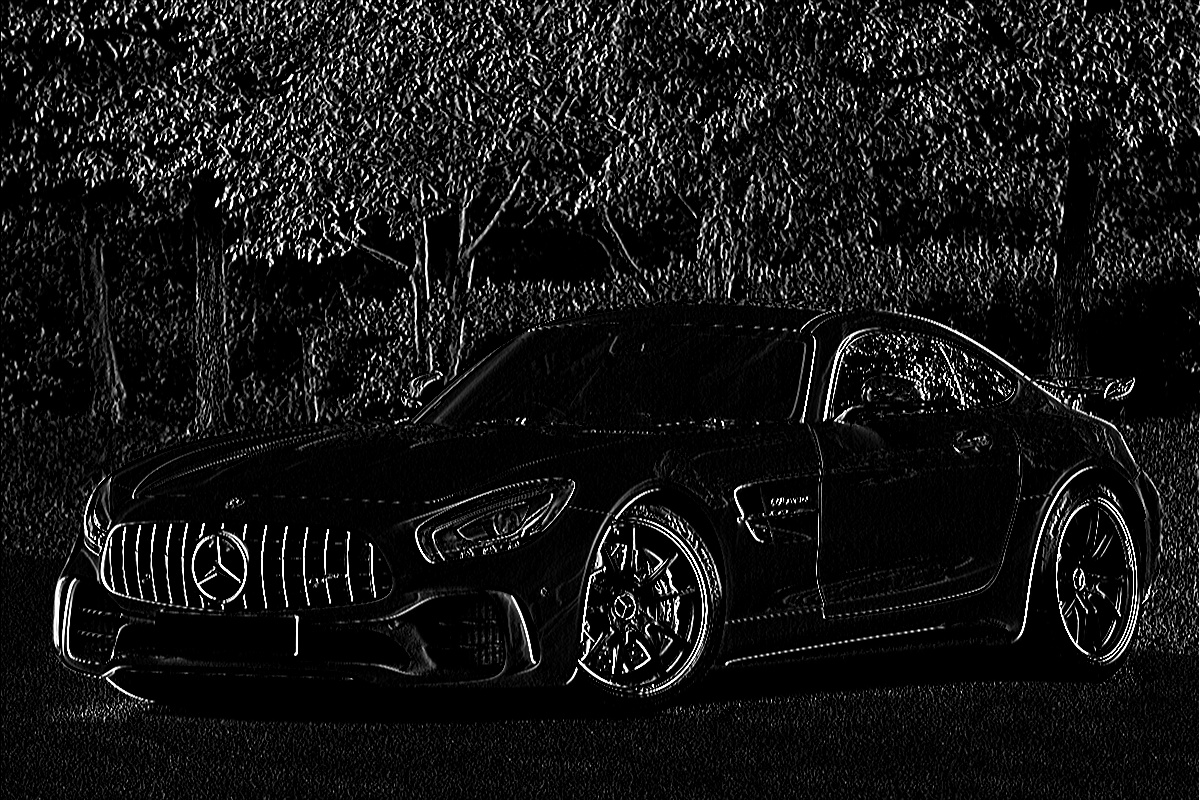
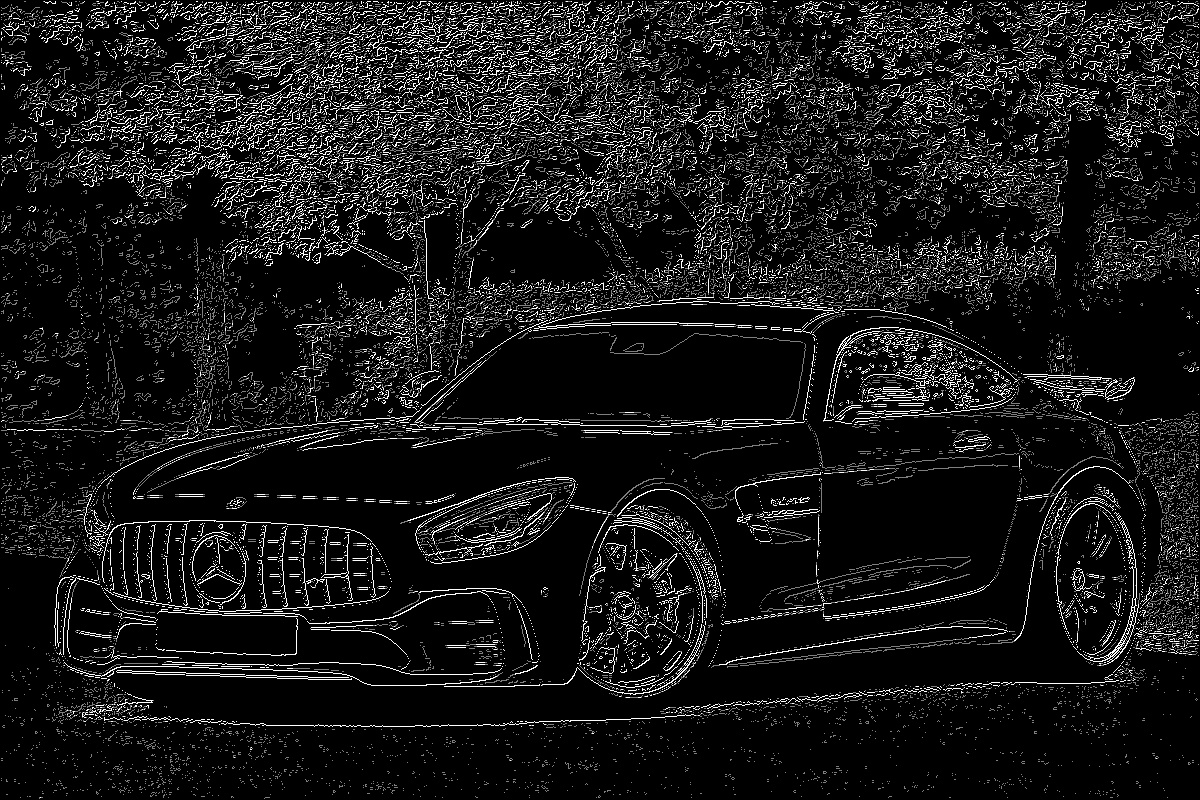
4/6/2023 V2

diff --git a/edge.py b/edge.py
@@ -1,126 +1,189 @@
-from freq_filter import freq_filter as F
-import cv2
 import numpy as np
 
-photo = cv2.imread("car.jpg",0)
-photo = cv2.resize(photo,(1200,800))
+class edge(object):
+
+    def __init__(self,photo):
+        self.photo = photo
+        return None
+
+    def double_thresholding(self,th1:int,th2:int):
+        photo = self.photo
+        
+        new = np.zeros((800,1200),dtype= np.float32)
+
+        for i in range(0,800):
+            for j in range(0,1200):
+                if photo[i,j] >= th2:
+                    new[i,j] = 255
+                elif photo[i,j] >= th1 and photo[i,j] <= th2 :
+                    new[i,j] = 127
+                else :
+                    new[i,j] =0
+
+        return new
 
 
 
 
-def double_thresholding(photo,th1:int,th2:int):
-    
-    new = np.zeros((800,1200),dtype= np.float32)
 
-    for i in range(0,800):
-        for j in range(0,1200):
-            if photo[i,j] >= th1 and photo[i,j] <= th2 :
-                new[i,j] = photo[i,j]
-            else :
-                new[i,j] =0
+    def sobelx(self):
 
-    return new
+        photo = self.photo
+
+        new = np.zeros((800,1200),dtype=np.float32)
+        temp = np.zeros((802,1202),dtype=np.float32)
 
 
+        temp[0,:] = 0
+        temp[:, 0] = 0
+        temp[801,:] = 0
+        temp[:, 1201] = 0
+        temp[1:801,1:1201] = photo
 
+        op = np.array([[-1,0,1],[-2,0,2],[-1,0,1]])
+        
+        for i in range(1,801):
+            for j in range(1,1201):
+                        
+                kernel = np.array([[temp[i-1,j-1],temp[i,j-1],temp[i+1,j-1]],
+                            [temp[i-1,j],temp[i,j],temp[i+1,j]],
+                            [temp[i-1,j+1],temp[i,j+1],temp[i+1,j+1]]])
+                
+                sum = 0
 
+                for x_key in range(3):
+                    for y_key in range(3) :
+                        sum += op[x_key,y_key]*kernel[x_key,y_key]
 
-def sobelx(photo):
-
-    new = np.zeros((800,1200),dtype=np.float32)
-    temp = np.zeros((802,1202),dtype=np.float32)
-
-
-    temp[0,:] = 0
-    temp[:, 0] = 0
-    temp[801,:] = 0
-    temp[:, 1201] = 0
-    temp[1:801,1:1201] = photo
-
-
-
-    op = np.array([[-1,0,1],[-2,0,2],[-1,0,1]])
-    
- 
-
-
-    for i in range(1,801):
-        for j in range(1,1201):
+                new[i-1,j-1] = sum
             
-       
-             
-            kernel = np.array([[temp[i-1,j-1],temp[i,j-1],temp[i+1,j-1]],
-                        [temp[i-1,j],temp[i,j],temp[i+1,j]],
-                        [temp[i-1,j+1],temp[i,j+1],temp[i+1,j+1]]])
             
-            sum = 0
-
-            for x_key in range(3):
-                for y_key in range(3) :
-                    sum += op[x_key,y_key]*kernel[x_key,y_key]
-
-            new[i-1,j-1] = sum
             
-         
-           
-    return  new
+        return  new
 
 
 
 
-def sobely(photo):
+    def sobely(self):
 
-    new = np.zeros((800,1200),dtype=np.float32)
-    temp = np.zeros((802,1202),dtype=np.float32)
+        photo = self.photo
 
-
-    temp[0,:] = 0
-    temp[:, 0] = 0
-    temp[801,:] = 0
-    temp[:, 1201] = 0
-    temp[1:801,1:1201] = photo
+        new = np.zeros((800,1200),dtype=np.float32)
+        temp = np.zeros((802,1202),dtype=np.float32)
 
 
+        temp[0,:] = 0
+        temp[:, 0] = 0
+        temp[801,:] = 0
+        temp[:, 1201] = 0
+        temp[1:801,1:1201] = photo
 
-    op = np.array([[1,2,1],[0,0,0],[-1,-2,-1]])
-    
- 
+        op = np.array([[1,2,1],[0,0,0],[-1,-2,-1]])
+        
+        for i in range(1,801):
+            for j in range(1,1201):
+                
+                kernel = np.array([[temp[i-1,j-1],temp[i,j-1],temp[i+1,j-1]],
+                            [temp[i-1,j],temp[i,j],temp[i+1,j]],
+                            [temp[i-1,j+1],temp[i,j+1],temp[i+1,j+1]]])
+                
+                sum = 0
 
+                for x_key in range(3):
+                    for y_key in range(3) :
+                        sum += op[x_key,y_key]*kernel[x_key,y_key]
 
-    for i in range(1,801):
-        for j in range(1,1201):
+                new[i-1,j-1] = sum
             
-       
-             
-            kernel = np.array([[temp[i-1,j-1],temp[i,j-1],temp[i+1,j-1]],
-                        [temp[i-1,j],temp[i,j],temp[i+1,j]],
-                        [temp[i-1,j+1],temp[i,j+1],temp[i+1,j+1]]])
+                
             
-            sum = 0
-
-            for x_key in range(3):
-                for y_key in range(3) :
-                    sum += op[x_key,y_key]*kernel[x_key,y_key]
-
-            new[i-1,j-1] = sum
             
-         
-           
-    return  new
+        return  new
+
+    def sobel_avg(self):
+        
+        photo = self.photo
+        mag = np.zeros((800,1200),dtype=np.float32)
+        e = edge(photo)
+        gx = e.sobelx()
+        gy = e.sobely()
+
+        for i in range(800):
+            for j in range(1200):
+                mag[i,j] = np.sqrt(gx[i,j]**2 + gy[i,j]**2)
+
+        return mag    
+
+
+    def gradientation(self):
+
+        mag = np.zeros((800,1200),dtype=np.float32)
+        ang = np.zeros((800,1200),dtype=np.float32)
+        filtered = np.zeros((800,1200),dtype=np.float32)
+        e = edge(photo)
+
+        gx = e.sobelx()
+        gy = e.sobely()
+
+        for i in range(800):
+            for j in range(1200):
+                mag[i,j] = np.sqrt(gx[i,j]**2 + gy[i,j]**2)
+                ang[i,j] = np.arctan2(gy[i,j],gx[i,j])
+
+        for i in range(1,799):
+            for j in range(1,1199):
+                
+                if ang[i,j] < np.pi/8 :
+                    n1 = mag[i-1,j]
+                    n2 = mag[i+1,j]
+                    if mag[i,j]>=n1 and mag[i,j]>=n2:
+                        filtered[i,j] = mag[i,j]
+                    else :
+                        filtered[i,j] = 0
+                
+
+                elif ang[i,j] >= np.pi/8 and ang[i,j] < (np.pi/8 + np.pi/4):
+
+                    n1 = mag[i-1,j-1]
+                    n2 = mag[i+1,j+1]
+                    if mag[i,j]>=n1 and mag[i,j]>=n2:
+                        filtered[i,j] = mag[i,j]
+                    else :
+                        filtered[i,j] = 0
+
+
+                elif ang[i,j] >= (np.pi/8+np.pi/4) and ang[i,j] < (np.pi/8 + np.pi/2):
+
+                    n1 = mag[i,j-1]
+                    n2 = mag[i,j+1]
+                    if mag[i,j]>=n1 and mag[i,j]>=n2:
+                        filtered[i,j] = mag[i,j]
+                    else :
+                        filtered[i,j] = 0
+
+                
+                elif ang[i,j] >= (np.pi/2+np.pi/8) and ang[i,j] < (np.pi/8 + 3*np.pi/4):
+
+                    n1 = mag[i+1,j+1]
+                    n2 = mag[i-1,j-1]
+                    if mag[i,j]>=n1 and mag[i,j]>=n2:
+                        filtered[i,j] = mag[i,j]
+                    else :
+                        filtered[i,j] = 0
+
+                
+                elif ang[i,j] >= (np.pi/8 + 3*np.pi/4) and ang[i,j] < (np.pi/8 + np.pi):
+
+                    n1 = mag[i+1,j+1]
+                    n2 = mag[i-1,j-1]
+                    if mag[i,j]>=n1 and mag[i,j]>=n2:
+                        filtered[i,j] = mag[i,j]
+                    else :
+                        filtered[i,j] = 0
+                
+        return filtered
 
 
 
 
-
-
-B = F(photo)
-#new = B.ideal_low_pass(80)
-#new = double_thresholding(photo,100,255)
-#new = B.ideal_high_pass(90)
-new = sobely(photo)
-print(np.shape(new))
-cv2.imwrite("edge.jpg",new)
-disp = cv2.imread("edge.jpg")
-cv2.imshow("frame",disp)
-cv2.waitKey(0)
 

diff --git a/playground.py b/playground.py
@@ -1,5 +1,6 @@
 import numpy as np
+import math
 
 a = np.array([[1,0,0],[0,1,0],[0,0,1]])
 b = np.array([[1,1,1],[2,2,2],[3,3,3]])
-print(b[0:2,1:2])
+print(math.atan(1/0))
